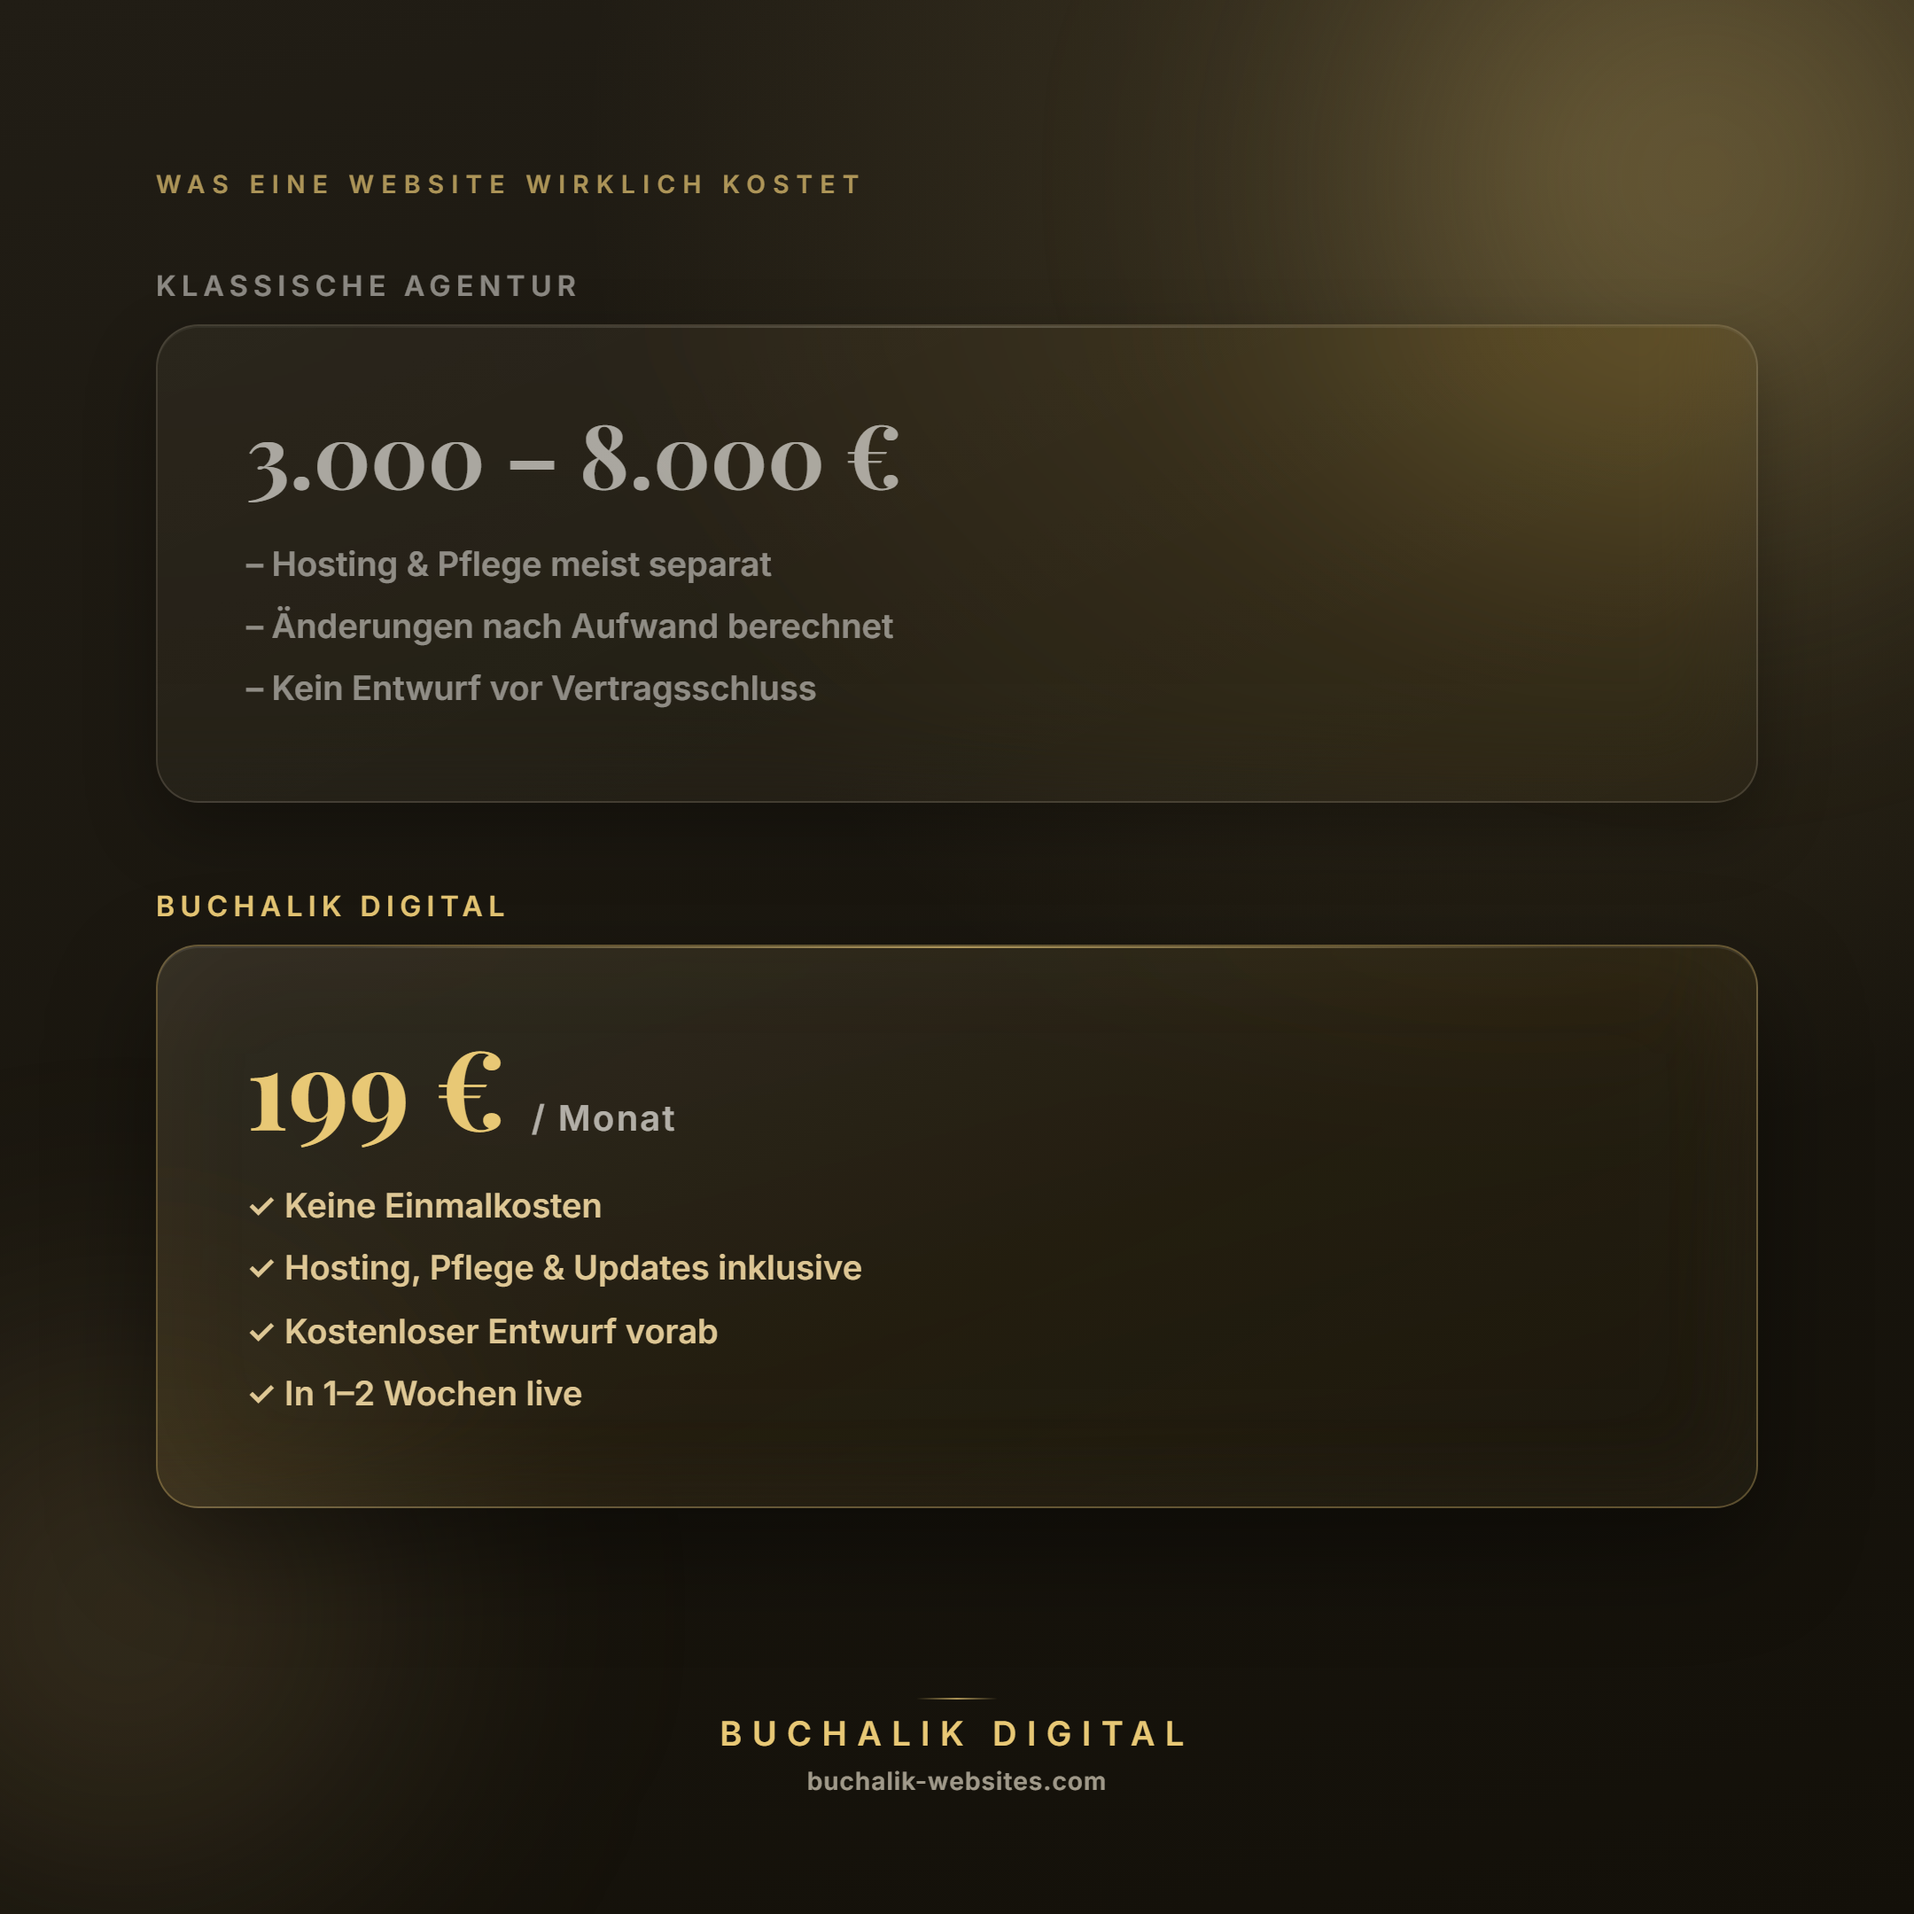
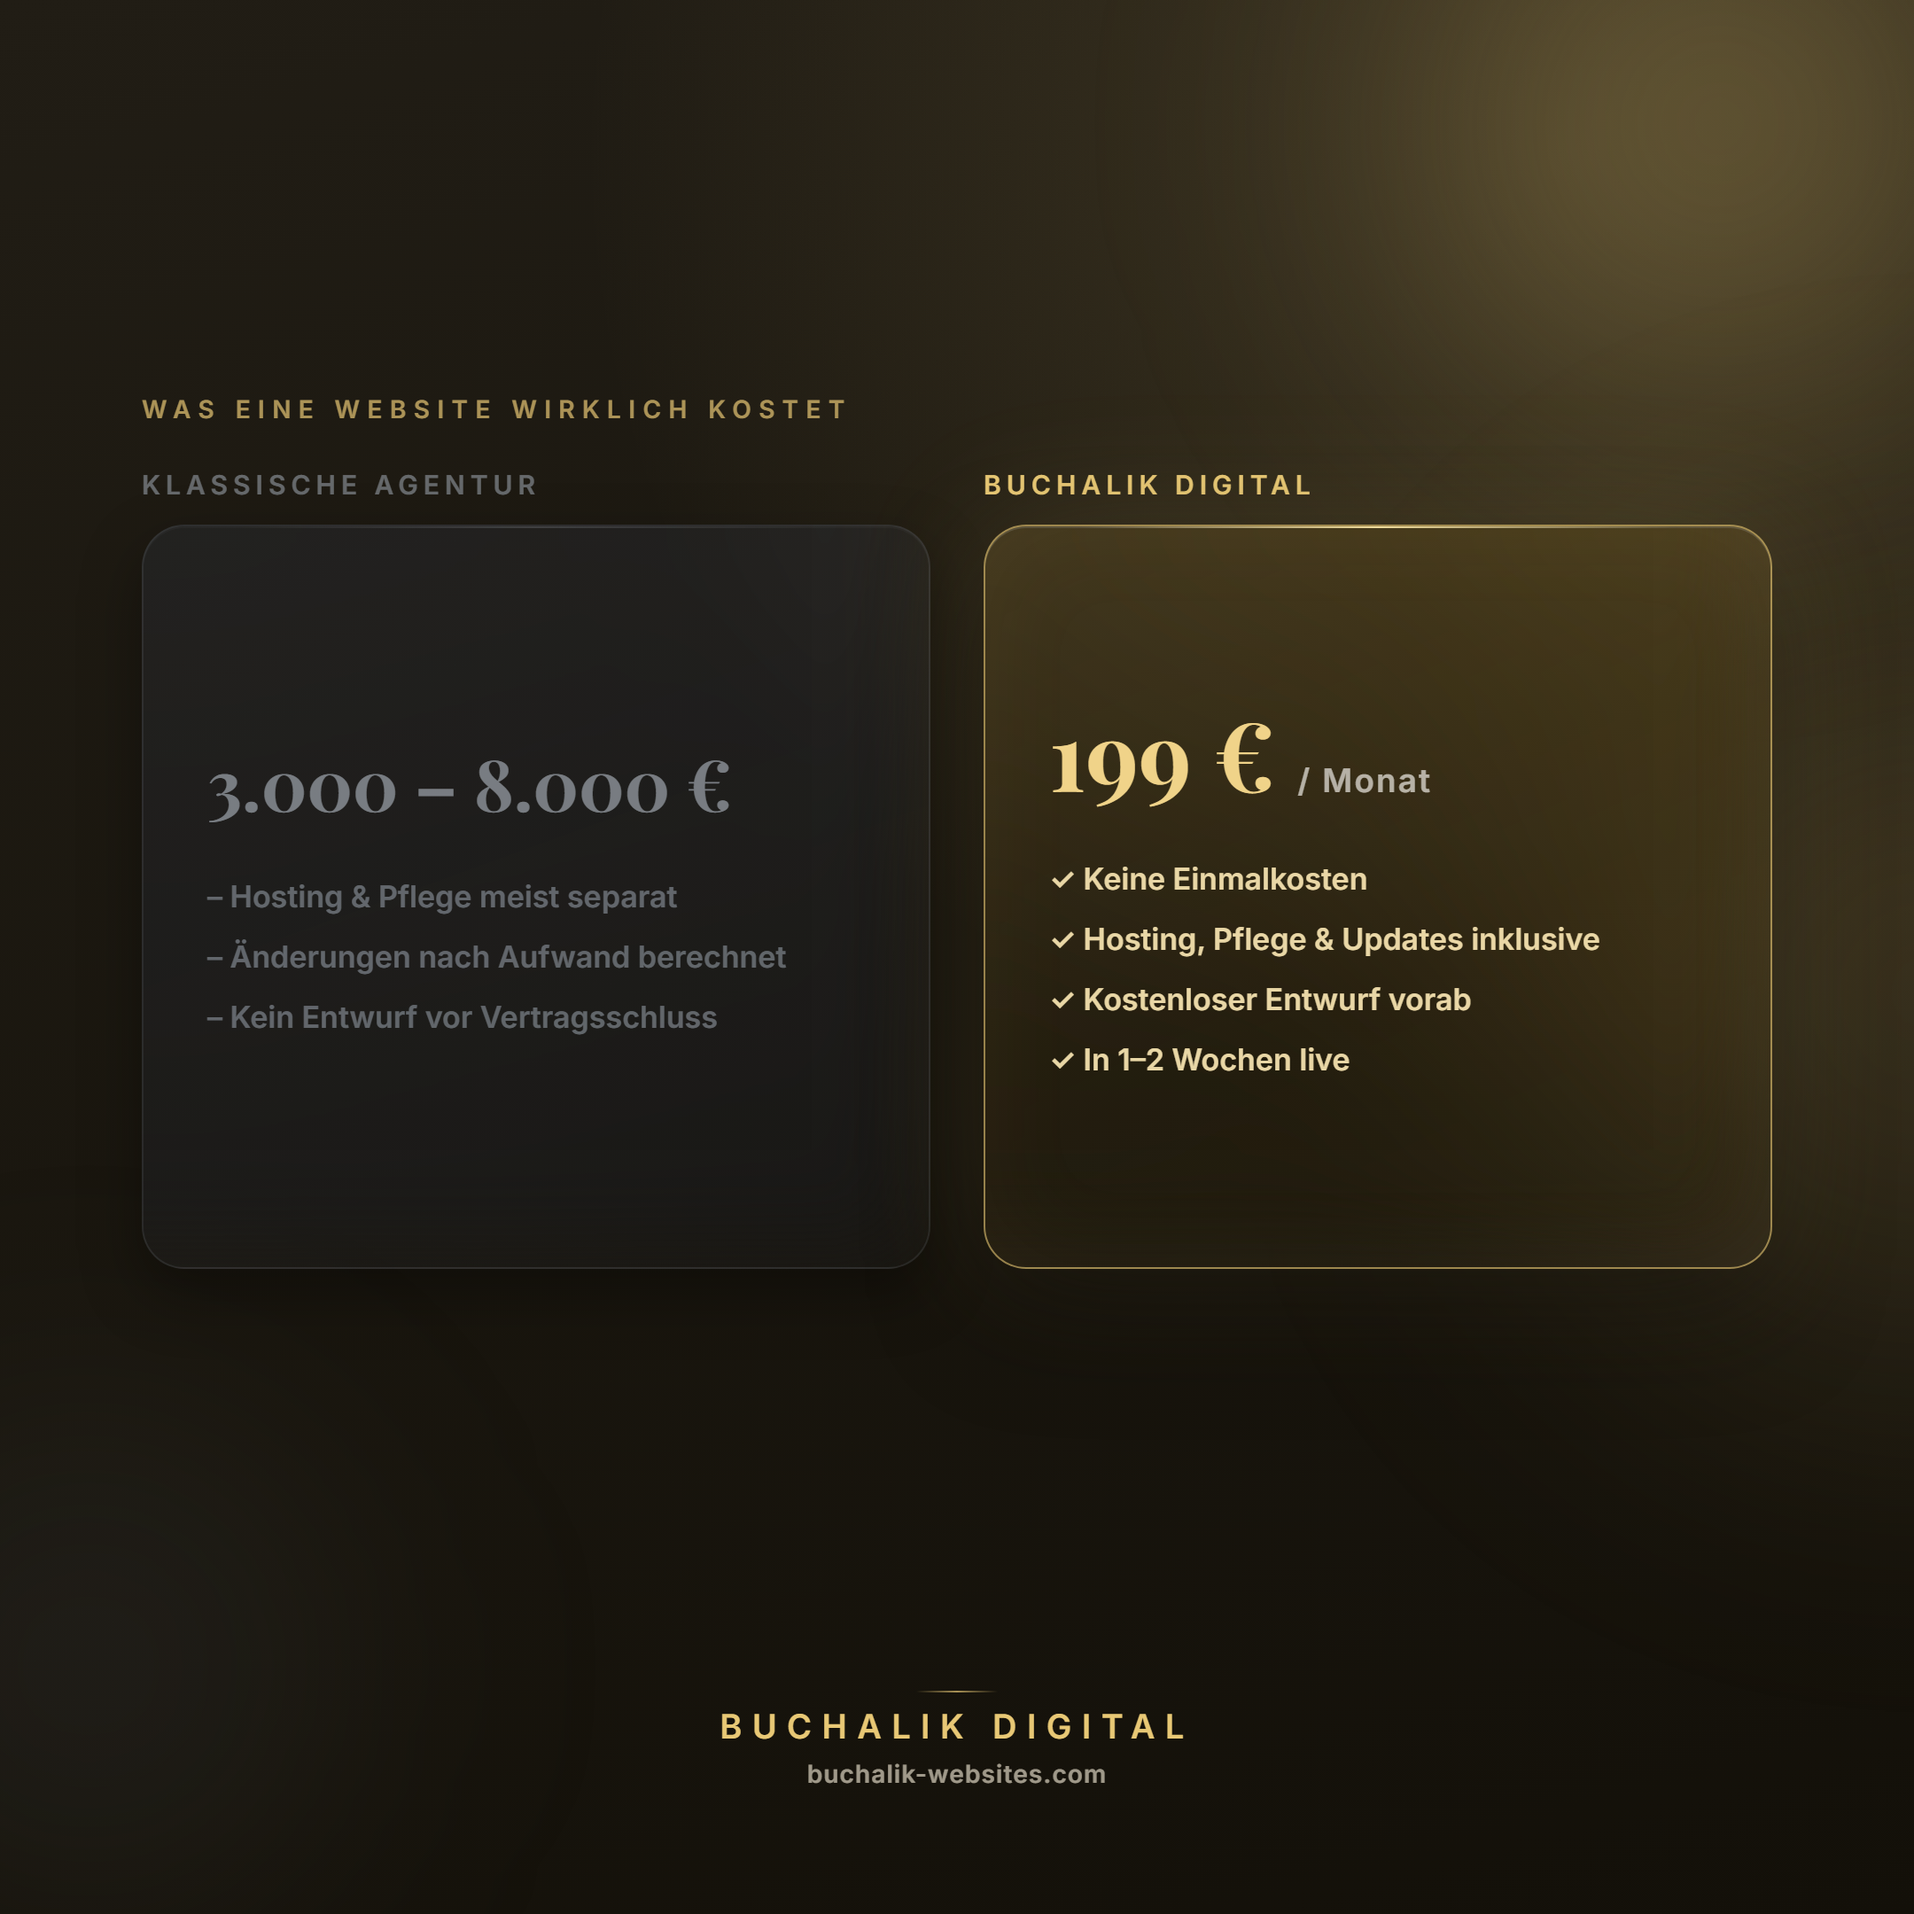
Put comparison panels side by side and widen the colour gap
Both formats now place the two options left and right rather than stacked,
and the panel treatments move into _base.css so the formats can't drift.

Contrast is built from temperature: the quiet side desaturates the warm
ground behind its glass to a cold grey, the Buchalik side oversaturates,
tints gold and lights from within, with a bokeh grazing it from off-canvas.
Still no red or warning semantics — recessive versus present, not bad
versus good.

diff --git a/templates/vergleich/ig.html b/templates/vergleich/ig.html
@@ -7,44 +7,36 @@
 
 .canvas { width: 1080px; height: 1080px; }
 
-.bokeh-a { width: 560px; height: 560px; top: -180px; right: -160px; background: radial-gradient(circle, rgba(232,200,117,0.32), transparent 70%); filter: blur(70px); }
-.bokeh-b { width: 460px; height: 460px; bottom: -60px; left: -160px; background: radial-gradient(circle, rgba(200,169,110,0.22), transparent 70%); filter: blur(70px); }
+.bokeh-a { width: 520px; height: 520px; top: -190px; right: -150px; background: radial-gradient(circle, rgba(232,200,117,0.30), transparent 70%); filter: blur(70px); }
+.bokeh-b { width: 440px; height: 440px; bottom: -80px; left: -170px; background: radial-gradient(circle, rgba(150,160,175,0.10), transparent 70%); filter: blur(70px); }
+/* Warm pool set well off the edge, so it grazes the Buchalik card and gives
+   its glass something to catch — sitting directly behind would flood it. */
+.bokeh-c { width: 640px; height: 640px; top: 240px; right: -330px; background: radial-gradient(circle, rgba(232,200,117,0.20), transparent 68%); filter: blur(85px); }
 
-/* Panels are stacked and vertically centred in the area above the footer. */
 .stack {
-  position: absolute; left: 88px; right: 88px; top: 0; bottom: 132px;
-  display: flex; flex-direction: column; justify-content: center; gap: 50px;
+  position: absolute; left: 80px; right: 80px; top: 0; bottom: 140px;
+  display: flex; flex-direction: column; justify-content: center; gap: 28px;
 }
 
 .eyebrow {
-  margin: 0 0 -8px;
+  margin: 0;
   font: 600 14px/1 'Inter', sans-serif;
   letter-spacing: 0.3em; text-transform: uppercase;
   color: rgba(232,200,117,0.7);
 }
 
-.row { display: flex; flex-direction: column; gap: 14px; }
+.columns { display: flex; gap: 30px; align-items: stretch; }
+.row { flex: 1; display: flex; flex-direction: column; gap: 15px; }
 .row-label {
-  font: 600 16px/1 'Inter', sans-serif;
+  font: 600 15px/1 'Inter', sans-serif;
   letter-spacing: 0.2em; text-transform: uppercase;
-  color: rgba(250,248,243,0.5);
 }
-.row-label.gold { color: #E8C875; }
 
-/* Price sits above a short list — full width, so each panel can carry a
-   different number of lines (the two sides aren't symmetric on purpose). */
 .glass-panel {
-  border-radius: 24px; padding: 46px 50px;
-  display: flex; flex-direction: column; gap: 18px;
+  flex: 1; min-height: 420px;
+  border-radius: 24px; padding: 46px 36px;
+  display: flex; flex-direction: column; justify-content: center; gap: 26px;
 }
-
-/* The agency panel stays deliberately quiet: no gold glow, dimmer border. */
-.glass-panel.muted {
-  background: linear-gradient(155deg, rgba(255,255,255,0.05), rgba(255,255,255,0.02));
-  border-color: rgba(245,237,216,0.14);
-  box-shadow: 0 16px 40px rgba(0,0,0,0.30), inset 0 1px 0 rgba(255,255,255,0.05);
-}
-.glass-panel.muted::before { background: linear-gradient(90deg, transparent, rgba(245,237,216,0.18), transparent); }
 
 .price {
   margin: 0; white-space: nowrap;
@@ -52,47 +44,46 @@
   line-height: 1.05;
   font-variant-numeric: tabular-nums;
 }
-.glass-panel.muted .price { font-size: 50px; color: rgba(250,248,243,0.62); }
-.glass-panel.accent .price { font-size: 62px; color: #E8C875; }
+.glass-panel.muted .price { font-size: 40px; }
+.glass-panel.accent .price { font-size: 54px; }
 .price .per {
   font-family: 'Inter', sans-serif; font-weight: 600;
-  font-size: 0.32em; letter-spacing: 0.06em;
+  font-size: 0.34em; letter-spacing: 0.06em;
   color: rgba(250,248,243,0.66);
 }
 
-/* Muted list stays quiet — a plain dash, no colour coding as "bad". */
 .meta {
   margin: 0;
-  font: 400 19px/1.85 'Inter', sans-serif;
-  color: rgba(250,248,243,0.5);
+  font: 400 17px/2 'Inter', sans-serif;
 }
-/* Accent list gets the warmer read: gold-tinted, not just brighter white. */
-.glass-panel.accent .meta { color: rgba(238,214,161,0.92); }
 
-.footer-mark { left: 0; right: 0; bottom: 68px; }
+.footer-mark { left: 0; right: 0; bottom: 72px; }
 </style>
 </head>
 <body>
 <div class="canvas">
   <div class="bokeh bokeh-a"></div>
   <div class="bokeh bokeh-b"></div>
+  <div class="bokeh bokeh-c"></div>
 
   <div class="stack">
     <p class="eyebrow">{{EYEBROW}}</p>
 
-    <div class="row">
-      <span class="row-label">{{LEFT_LABEL}}</span>
-      <div class="glass-panel muted">
-        <p class="price">{{LEFT_PRICE}}</p>
-        <p class="meta">{{LEFT_META}}</p>
+    <div class="columns">
+      <div class="row">
+        <span class="row-label">{{LEFT_LABEL}}</span>
+        <div class="glass-panel muted">
+          <p class="price">{{LEFT_PRICE}}</p>
+          <p class="meta">{{LEFT_META}}</p>
+        </div>
       </div>
-    </div>
 
-    <div class="row">
-      <span class="row-label gold">{{RIGHT_LABEL}}</span>
-      <div class="glass-panel accent">
-        <p class="price">{{RIGHT_PRICE}}</p>
-        <p class="meta">{{RIGHT_META}}</p>
+      <div class="row">
+        <span class="row-label gold">{{RIGHT_LABEL}}</span>
+        <div class="glass-panel accent">
+          <p class="price">{{RIGHT_PRICE}}</p>
+          <p class="meta">{{RIGHT_META}}</p>
+        </div>
       </div>
     </div>
   </div>

diff --git a/templates/vergleich/fb.html b/templates/vergleich/fb.html
@@ -8,7 +8,9 @@
 .canvas { width: 1200px; height: 630px; }
 
 .bokeh-a { width: 480px; height: 480px; top: -200px; right: -100px; background: radial-gradient(circle, rgba(232,200,117,0.30), transparent 70%); filter: blur(65px); }
-.bokeh-b { width: 380px; height: 380px; bottom: -180px; left: -100px; background: radial-gradient(circle, rgba(200,169,110,0.22), transparent 70%); filter: blur(60px); }
+.bokeh-b { width: 380px; height: 380px; bottom: -180px; left: -100px; background: radial-gradient(circle, rgba(150,160,175,0.10), transparent 70%); filter: blur(60px); }
+/* Warm pool behind the Buchalik card so its glow has something to lift off. */
+.bokeh-c { width: 620px; height: 620px; top: -80px; right: -60px; background: radial-gradient(circle, rgba(232,200,117,0.15), transparent 68%); filter: blur(80px); }
 
 /* 630px is too short to stack, so the two panels sit side by side here.
    The block is centred as a whole and the panels size to their content —
@@ -30,21 +32,12 @@
 .row-label {
   font: 600 14px/1 'Inter', sans-serif;
   letter-spacing: 0.2em; text-transform: uppercase;
-  color: rgba(250,248,243,0.5);
 }
-.row-label.gold { color: #E8C875; }
 
 .glass-panel {
   flex: 1; border-radius: 20px; padding: 30px 34px;
   display: flex; flex-direction: column; justify-content: center; gap: 10px;
 }
-
-.glass-panel.muted {
-  background: linear-gradient(155deg, rgba(255,255,255,0.05), rgba(255,255,255,0.02));
-  border-color: rgba(245,237,216,0.14);
-  box-shadow: 0 16px 40px rgba(0,0,0,0.30), inset 0 1px 0 rgba(255,255,255,0.05);
-}
-.glass-panel.muted::before { background: linear-gradient(90deg, transparent, rgba(245,237,216,0.18), transparent); }
 
 .price {
   margin: 0;
@@ -52,22 +45,18 @@
   line-height: 1.05;
   font-variant-numeric: tabular-nums;
 }
-.glass-panel.muted .price { font-size: 34px; color: rgba(250,248,243,0.62); }
-.glass-panel.accent .price { font-size: 42px; color: #E8C875; }
+.glass-panel.muted .price { font-size: 34px; }
+.glass-panel.accent .price { font-size: 42px; }
 .price .per {
   font-family: 'Inter', sans-serif; font-weight: 600;
   font-size: 0.36em; letter-spacing: 0.06em;
   color: rgba(250,248,243,0.66);
 }
 
-/* Muted list stays quiet — a plain dash, no colour coding as "bad". */
 .meta {
   margin: 0;
-  font: 400 14px/1.6 'Inter', sans-serif;
-  color: rgba(250,248,243,0.5);
+  font: 400 14px/1.75 'Inter', sans-serif;
 }
-/* Accent list gets the warmer read: gold-tinted, not just brighter white. */
-.glass-panel.accent .meta { color: rgba(238,214,161,0.92); }
 
 .footer-mark { left: 0; right: 0; bottom: 44px; }
 .footer-mark .wordmark { font-size: 16px; letter-spacing: 0.22em; }
@@ -77,6 +66,7 @@
 <div class="canvas">
   <div class="bokeh bokeh-a"></div>
   <div class="bokeh bokeh-b"></div>
+  <div class="bokeh bokeh-c"></div>
 
   <div class="stack">
     <p class="eyebrow">{{EYEBROW}}</p>

diff --git a/templates/_base.css b/templates/_base.css
@@ -53,6 +53,47 @@ html, body { margin: 0; padding: 0; }
   background: linear-gradient(90deg, transparent, rgba(232,200,117,0.65), transparent);
 }
 
+/* ── Comparison panels ───────────────────────────────────────────────
+   The contrast is built from temperature and light, not from marking the
+   other option as an error: the quiet side is desaturated to a cold grey
+   (saturate < 1 drains the warm ground showing through the glass), the
+   Buchalik side is oversaturated, gold-tinted and lit from within.
+   No red, no warning semantics — just recessive versus present. */
+
+.glass-panel.muted {
+  background: linear-gradient(160deg, rgba(158,170,188,0.06), rgba(120,132,150,0.02));
+  border-color: rgba(198,210,226,0.10);
+  -webkit-backdrop-filter: blur(28px) saturate(0.35);
+  backdrop-filter: blur(28px) saturate(0.35);
+  box-shadow: 0 14px 34px rgba(0,0,0,0.34), inset 0 1px 0 rgba(255,255,255,0.03);
+}
+.glass-panel.muted::before {
+  background: linear-gradient(90deg, transparent, rgba(206,218,234,0.14), transparent);
+}
+
+.glass-panel.accent {
+  background: linear-gradient(155deg, rgba(232,200,117,0.13), rgba(232,200,117,0.04) 58%, rgba(255,255,255,0.025));
+  border-color: rgba(232,200,117,0.60);
+  -webkit-backdrop-filter: blur(28px) saturate(1.45);
+  backdrop-filter: blur(28px) saturate(1.45);
+  box-shadow:
+    0 26px 64px rgba(0,0,0,0.42),
+    0 0 78px rgba(232,200,117,0.16),
+    inset 0 1px 0 rgba(255,255,255,0.13),
+    inset 0 0 60px rgba(232,200,117,0.05);
+}
+.glass-panel.accent::before {
+  background: linear-gradient(90deg, transparent, rgba(246,226,162,0.95), transparent);
+}
+
+/* Type colours follow the same cold/warm split; sizes stay per template. */
+.row-label { color: rgba(203,214,230,0.42); }
+.row-label.gold { color: #E8C875; }
+.glass-panel.muted .price { color: rgba(210,219,232,0.5); }
+.glass-panel.accent .price { color: #F0D389; }
+.glass-panel.muted .meta { color: rgba(203,214,230,0.4); }
+.glass-panel.accent .meta { color: rgba(244,226,175,0.95); }
+
 .footer-mark {
   position: absolute;
   display: flex; flex-direction: column; align-items: center; gap: 10px;
